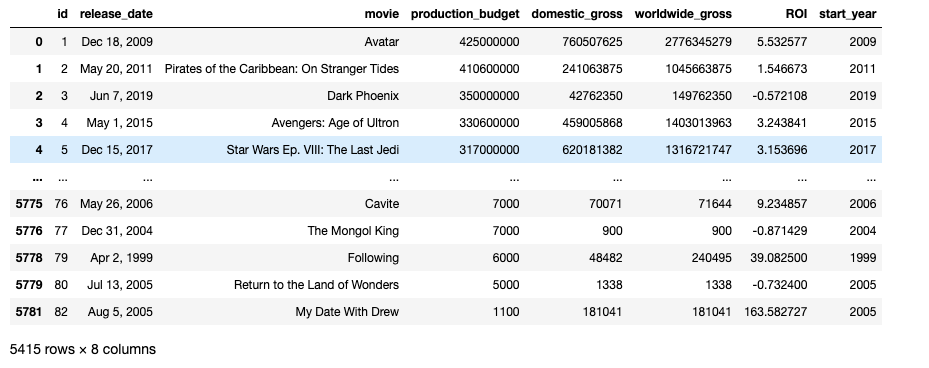
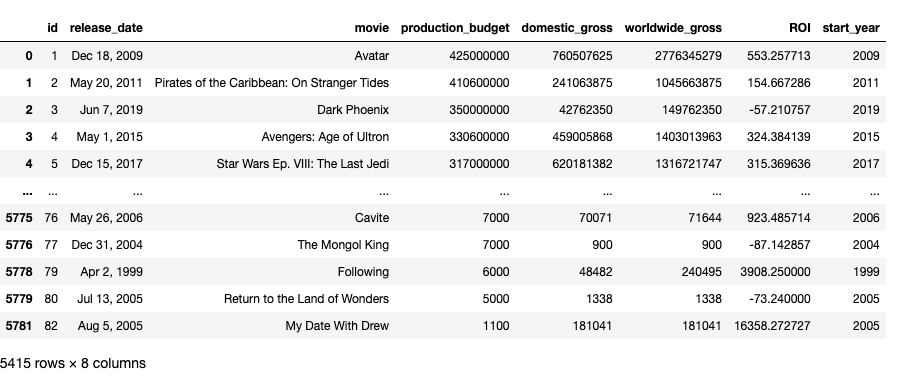
Readme and picture update

diff --git a/README.md b/README.md
@@ -4,7 +4,7 @@
 
 After identifying the data sets needed by all members of our team, we first cleaned the `tn.movie_budgets.csv.gz` by converting it to a Pandas DataFrame and stripping all punctuation from the columns related to finance. All items in these columns were then converted to . A new column was created in the DataFrame called "ROI" in which the return on investment was calculated using the following equation:
 
-#### **worldwide_gross - budget)/(worldwide_gross)**
+#### **100 * (worldwide_gross - budget)/(worldwide_gross)**
 
 Yet another column was then added named "start_year" in order to help with joining the DataFrame in later steps. Finally, all rows where worldwide gross was zero were eliminated from the data.
 
